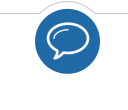
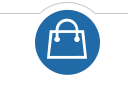
refine tabbar

diff --git a/src/ios/App/Controllers/RootViewController.m b/src/ios/App/Controllers/RootViewController.m
@@ -12,8 +12,7 @@
 
 #import "RootViewController.h"
 #import "WorksViewController.h"
-#import "ChatSessionListViewController.h"
-//#import "CouponsViewController.h"
+#import "StaffsViewController.h"
 #import "ProductsViewController.h"
 #import "GroupsViewController.h"
 #import "UserViewController.h"
@@ -39,17 +38,17 @@
     GroupsViewController *groupsVc = [GroupsViewController new];
     UINavigationController *groupsNav = [[UINavigationController alloc] initWithRootViewController:groupsVc];
     groupsNav.delegate = self;
-    ChatSessionListViewController *chatVc = [ChatSessionListViewController new];
-    UINavigationController *chatNav = [[UINavigationController alloc] initWithRootViewController:chatVc];
-    chatNav.delegate = self;
     ProductsViewController *productsVc = [ProductsViewController new];
     UINavigationController *productsNav = [[UINavigationController alloc] initWithRootViewController:productsVc];
     productsNav.delegate  = self;
+    StaffsViewController *staffsVc = [StaffsViewController new];
+    UINavigationController *staffsNav = [[UINavigationController alloc] initWithRootViewController:staffsVc];
+    staffsNav.delegate = self;
     UserViewController *userVc = [UserViewController new];
     UINavigationController *userNav = [[UINavigationController alloc] initWithRootViewController:userVc];
     userNav.delegate = self;
 
-    NSArray *viewControls = @[workNav,groupsNav,chatNav,productsNav,userNav];
+    NSArray *viewControls = @[workNav,groupsNav,productsNav,staffsNav,userNav];
     NSArray *tabNormalImages = @[[UIImage imageNamed:@"RootBottomTab1"],
                                  [UIImage imageNamed:@"RootBottomTab2"],
                                  [UIImage imageNamed:@"RootBottomTab3"],
@@ -83,7 +82,7 @@
 {   
     if([viewController isKindOfClass:[WorksViewController class]] ||
        [viewController isKindOfClass:[GroupsViewController class]] ||
-       [viewController isKindOfClass:[ChatSessionListViewController class]] ||
+       [viewController isKindOfClass:[StaffsViewController class]] ||
        [viewController isKindOfClass:[ProductsViewController class]] ||
        [viewController isKindOfClass:[UserViewController class]] ){
         [self.tabBar setHidden:YES];

diff --git a/src/ios/App/Controllers/Staffs/StaffsViewController.m b/src/ios/App/Controllers/Staffs/StaffsViewController.m
@@ -43,12 +43,6 @@
 - (void)viewWillAppear:(BOOL)animated
 {
     [super viewWillAppear:animated];
-//    if(CGRectEqualToRect(self.tableView.frame, CGRectZero)){
-//        self.tableView.frame = CGRectMake(0,
-//                                          self.topBarOffset,
-//                                          WIDTH(self.view),
-//                                          HEIGHT(self.view)- self.topBarOffset - self.bottomBarOffset);
-//    }
 }
 
 - (void)viewDidLoad
